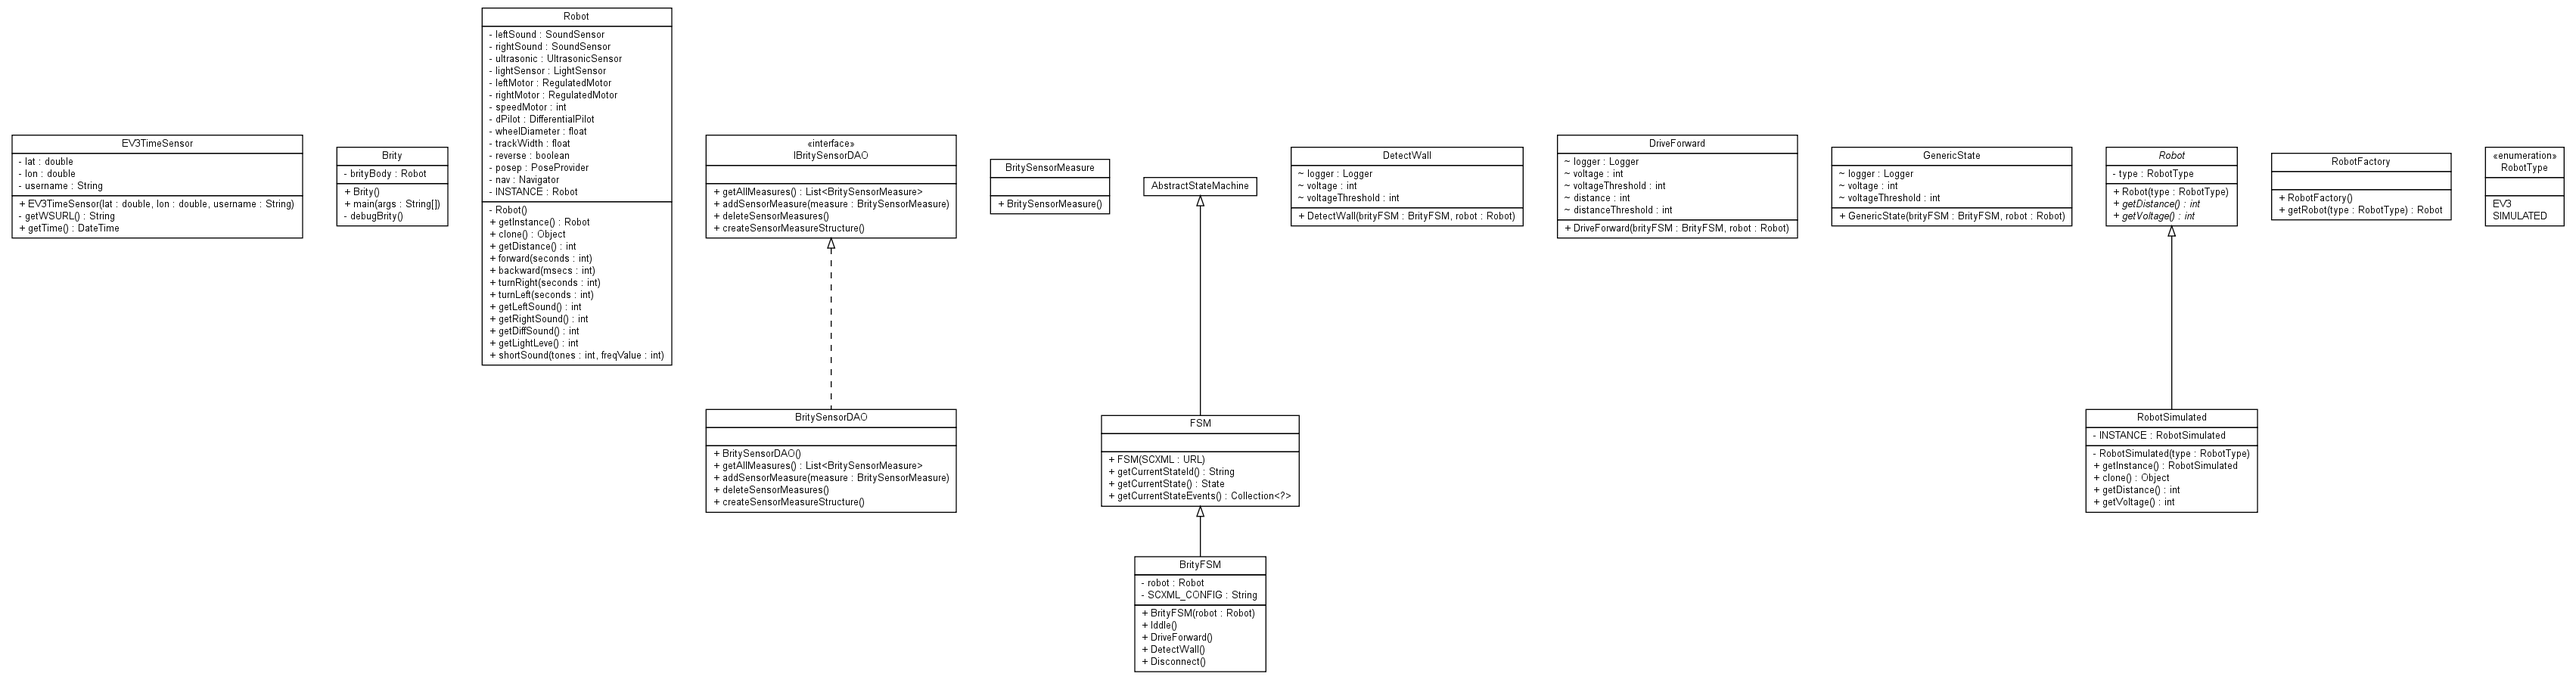
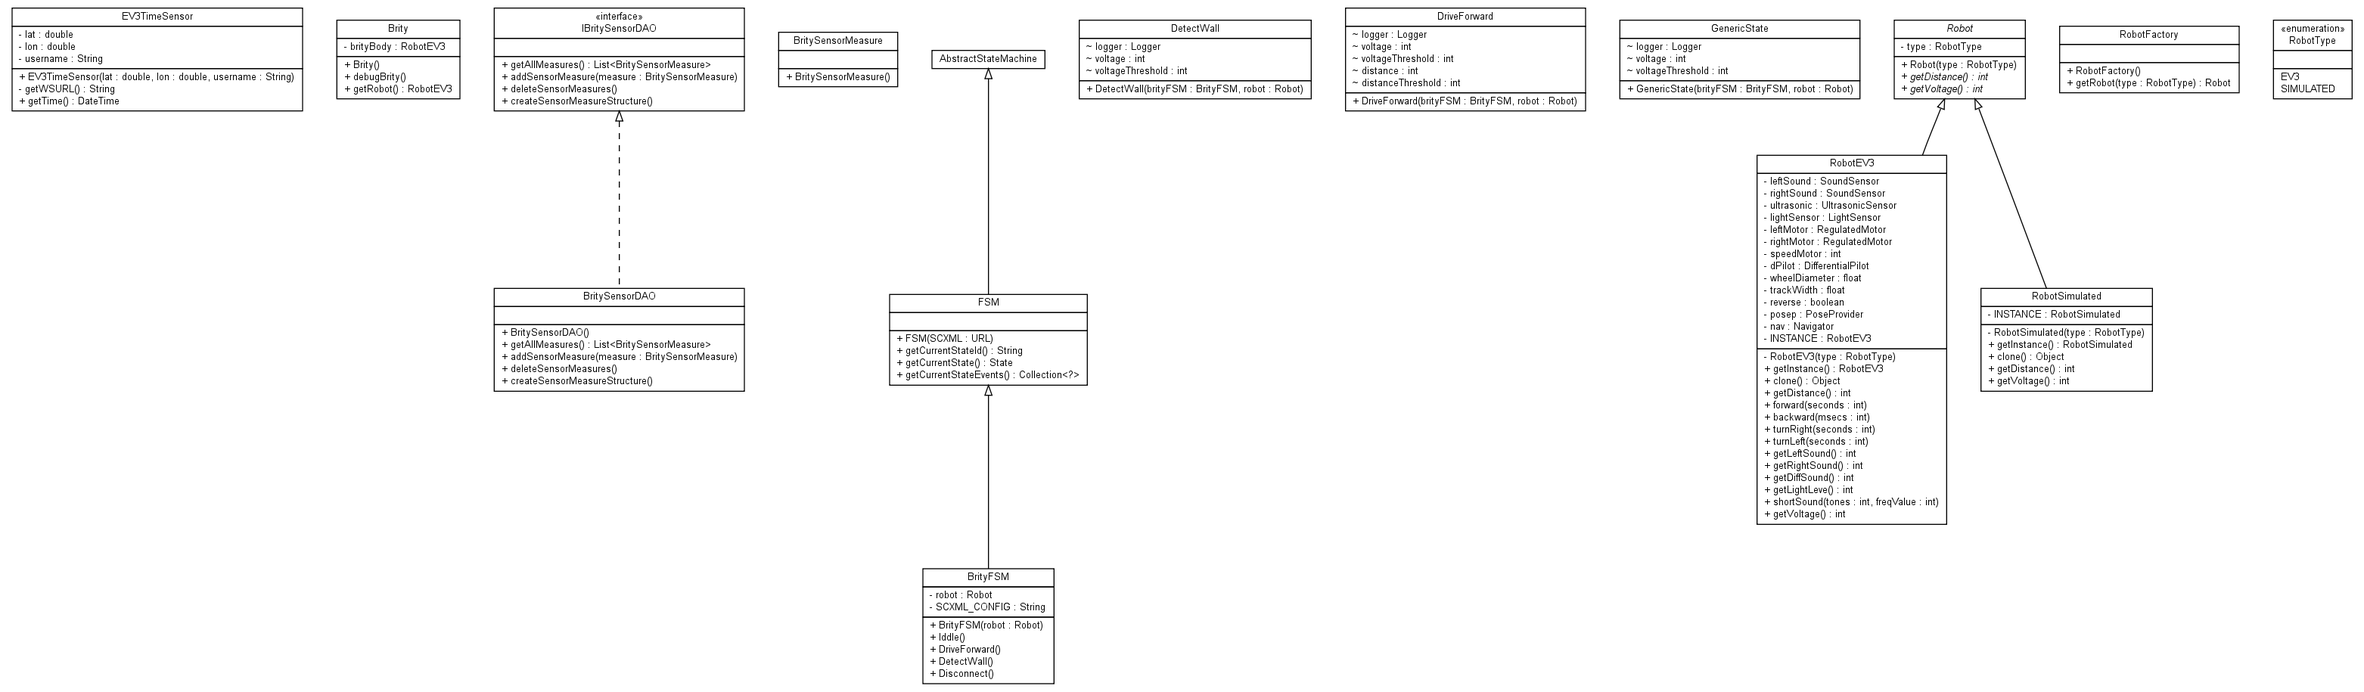
Better Design

diff --git a/src/main/java/jab/lejos/liverobots/brity/Brity.java b/src/main/java/jab/lejos/liverobots/brity/Brity.java
@@ -1,62 +1,28 @@
 package jab.lejos.liverobots.brity;
 
-import lejos.nxt.Button;
-import lejos.nxt.Sound;
+import jab.lejos.liverobots.brity.model.RobotEV3;
+import jab.lejos.liverobots.brity.model.RobotFactory;
+import jab.lejos.liverobots.brity.model.RobotType;
 
 public class Brity {	
 
-	private static Robot brityBody;
+	private static RobotEV3 brityBody;
 	
-	public static void main(String[] args){
-
-		//brityBody = Robot.g;
-		Robot b = Robot.getInstance();
-		Sound.setVolume(30);
-		Sound.beepSequenceUp();
-
-		int iterationCounter = 0;
-		
-		//while ((!Button.ESCAPE.isDown()) || (!(iterationCounter >= 10))) {
-		while (!(iterationCounter >= 20)) {
-		//for(int i=0; i<=10; i++){	
-
-			debugBrity();
-			
-			if((brityBody.getDiffSound() <= 10) && (brityBody.getLeftSound() < 5)){
-				System.out.println("Brity is happy. It likes silences");
-			}else{
-				System.out.println("Brity is annoyed. It likes silences");
-				brityBody.shortSound(5, 1000);				
-			}
-			
-			if(brityBody.getLightLeve() <= 200){
-
-			}else{
-				System.out.println("Brity is annoyed. It likes dark places");
-				brityBody.backward(200);				
-			}
-			
-			System.out.println("=======");
-			
-			iterationCounter++;
-			
-			try { Thread.sleep(1000); } catch (InterruptedException e) {};
-	    }
-		
-		Sound.beepSequence();
-
-		
-		System.out.println("EXIT");		
-		System.exit(0);
+	public Brity(){
+		brityBody = (RobotEV3) RobotFactory.getRobot(RobotType.EV3);
 	}
 
-	private static void debugBrity(){
+	public void debugBrity(){
 		System.out.println("LS: " + brityBody.getLeftSound());
 		System.out.println("RS: " + brityBody.getRightSound());
 		System.out.println("DS: " + brityBody.getDiffSound());
 		System.out.println("D:  " + brityBody.getDistance());
 		System.out.println("LS: " + brityBody.getLightLeve());
 		System.out.println("=======");
+	}
+	
+	public RobotEV3 getRobot(){
+		return this.brityBody;
 	}
 	
 }

diff --git a/src/main/java/jab/lejos/liverobots/brity/model/RobotEV3.java b/src/main/java/jab/lejos/liverobots/brity/model/RobotEV3.java
@@ -1,4 +1,4 @@
-package jab.lejos.liverobots.brity;
+package jab.lejos.liverobots.brity.model;
 
 import java.util.Random;
 
@@ -20,7 +20,7 @@ import lejos.robotics.navigation.DifferentialPilot;
 import lejos.robotics.navigation.Navigator;
 import lejos.robotics.navigation.Pose;
 
-public class Robot {
+public class RobotEV3 extends Robot {
 
 	//Sensors
 	private SoundSensor leftSound;
@@ -40,7 +40,8 @@ public class Robot {
 	private PoseProvider posep;
 	private Navigator nav;
 	
-	private Robot(){
+	private RobotEV3(RobotType type){
+		super(type);
 		leftSound = new SoundSensor((ADSensorPort) SensorPort.S1);
 		rightSound = new SoundSensor((ADSensorPort) SensorPort.S2);
 		leftSound.setDBA(true);
@@ -63,13 +64,13 @@ public class Robot {
 	}
 	
 	//Singleton pattern
-	private static Robot INSTANCE = null;
+	private static RobotEV3 INSTANCE = null;
 	
-	public static Robot getInstance() {
+	public static RobotEV3 getInstance() {
         if (INSTANCE == null) {
-            synchronized(Robot.class) {
+            synchronized(RobotEV3.class) {
                 if (INSTANCE == null) { 
-                    INSTANCE = new Robot();
+                    INSTANCE = new RobotEV3(RobotType.EV3);
                 }
             }
         }
@@ -165,6 +166,12 @@ public class Robot {
 	        Sound.playTone(i*frequency, duration);
 	        try { Thread.sleep(100); } catch (InterruptedException e) {}
 	    }		
+	}
+
+	@Override
+	public int getVoltage() {
+		// TODO Auto-generated method stub
+		return 0;
 	}
 	
 

diff --git a/src/test/java/jab/lejos/liverobots/brity/BrityTest.java b/src/test/java/jab/lejos/liverobots/brity/BrityTest.java
@@ -1,0 +1,49 @@
+package jab.lejos.liverobots.brity;
+
+import lejos.nxt.Sound;
+
+public class BrityTest {	
+
+	public static void main(String[] args){
+
+		Brity b = new Brity();
+		Sound.setVolume(30);
+		Sound.beepSequenceUp();
+
+		int iterationCounter = 0;
+		
+		//while ((!Button.ESCAPE.isDown()) || (!(iterationCounter >= 10))) {
+		while (!(iterationCounter >= 20)) {
+		//for(int i=0; i<=10; i++){	
+
+			b.debugBrity();
+			
+			if((b.getRobot().getDiffSound() <= 10) && (b.getRobot().getLeftSound() < 5)){
+				System.out.println("Brity is happy. It likes silences");
+			}else{
+				System.out.println("Brity is annoyed. It likes silences");
+				b.getRobot().shortSound(5, 1000);				
+			}
+			
+			if(b.getRobot().getLightLeve() <= 200){
+
+			}else{
+				System.out.println("Brity is annoyed. It likes dark places");
+				b.getRobot().backward(200);				
+			}
+			
+			System.out.println("=======");
+			
+			iterationCounter++;
+			
+			try { Thread.sleep(1000); } catch (InterruptedException e) {};
+	    }
+		
+		Sound.beepSequence();
+
+		
+		System.out.println("EXIT");		
+		System.exit(0);
+	}
+	
+}

diff --git a/src/main/java/jab/lejos/liverobots/brity/model/RobotFactory.java b/src/main/java/jab/lejos/liverobots/brity/model/RobotFactory.java
@@ -6,6 +6,8 @@ public class RobotFactory {
 		Robot robot = null;
 		if(type==RobotType.SIMULATED){
 			robot = RobotSimulated.getInstance();
+		}else if(type==RobotType.EV3){
+			robot = RobotEV3.getInstance();			
 		}
 		return robot;
 	}
